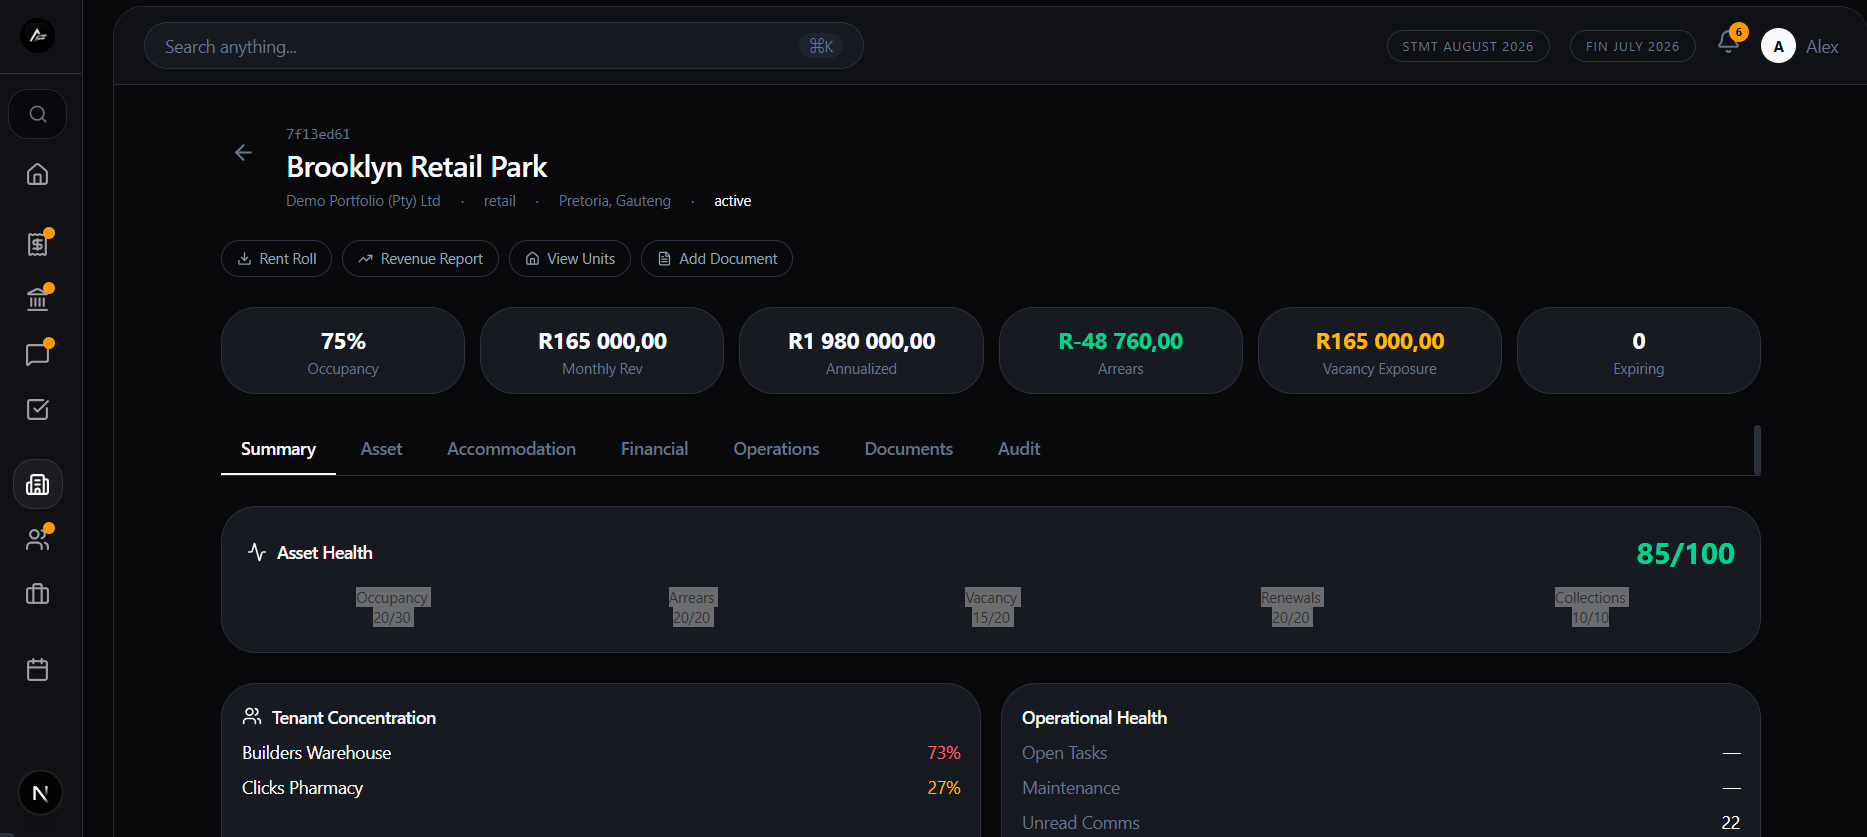
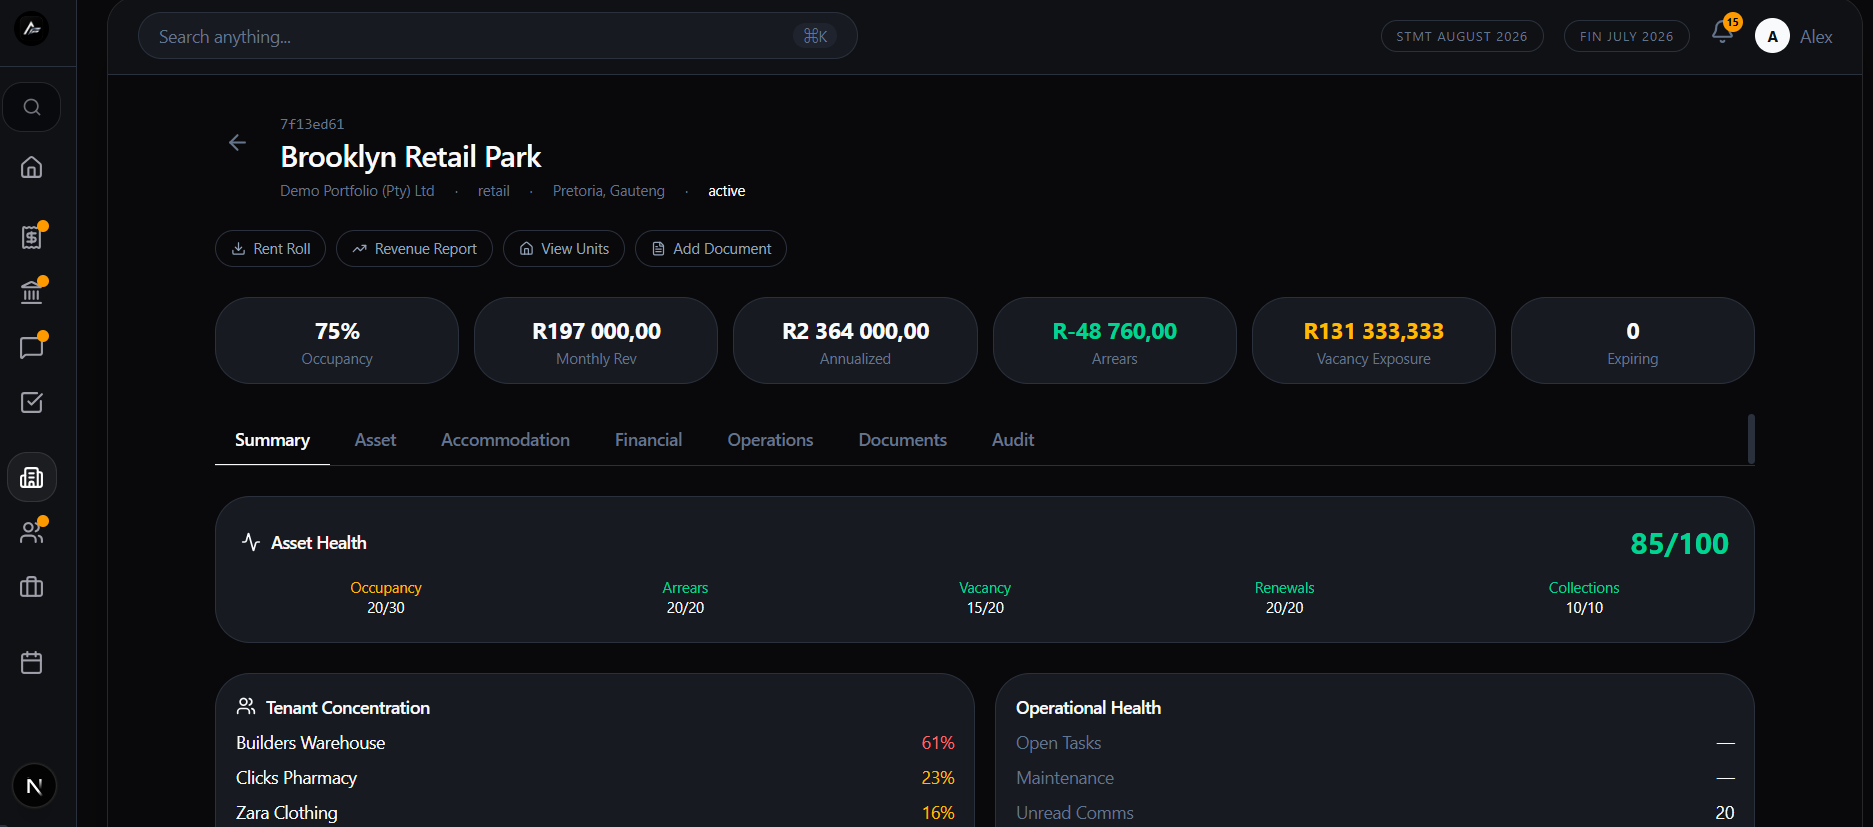
Landing page final: refined hero, trust section, real intelligence stories, reduced screenshots

diff --git a/app/landing/page.tsx b/app/landing/page.tsx
@@ -2,7 +2,6 @@
 
 import { useState } from 'react';
 import Link from 'next/link';
-import { supabase } from "@/lib/supabase";
 
 export default function LandingPage() {
   const [betaEmail, setBetaEmail] = useState('');
@@ -47,7 +46,7 @@ export default function LandingPage() {
       </nav>
 
       {/* ============================================================ */}
-      {/* HERO — single screenshot, product face */}
+      {/* HERO */}
       {/* ============================================================ */}
       <section className="relative overflow-hidden px-6 pt-32 pb-20 md:pt-40">
         <div className="absolute -top-40 -right-40 h-[600px] w-[600px] rounded-full bg-emerald-500/5 blur-3xl" />
@@ -62,7 +61,7 @@ export default function LandingPage() {
               <span className="text-gray-400">Your portfolio is talking.</span>
             </h1>
             <p className="mx-auto max-w-2xl text-lg text-gray-400">
-              Commercial property operations, finally in one system. Leases, billing, statements, cash books, communications and intelligence — from a single operating platform.
+              The commercial property operating system. Leases, billing, cash books and communications — finally working together.
             </p>
             <div className="flex flex-wrap justify-center gap-4 pt-4">
               <a href="#beta" className="rounded-full bg-white px-8 py-3.5 text-sm font-medium text-black transition hover:bg-white/90">Request Beta Access</a>
@@ -99,8 +98,8 @@ export default function LandingPage() {
             </div>
           ))}
         </div>
-        <div className="mt-6 text-center">
-          <p className="text-xl text-white font-medium">AssetFlow → One operating system.</p>
+        <div className="mt-8 text-center">
+          <p className="text-2xl text-white font-semibold">One portfolio. One team. One operating system.</p>
         </div>
       </section>
 
@@ -131,7 +130,7 @@ export default function LandingPage() {
       </section>
 
       {/* ============================================================ */}
-      {/* PRODUCT TOUR — 4 screenshots only */}
+      {/* PRODUCT TOUR — 3 screenshots */}
       {/* ============================================================ */}
       <section className="mx-auto max-w-6xl px-6 py-20">
         <div className="mb-12 text-center">
@@ -140,7 +139,6 @@ export default function LandingPage() {
         </div>
 
         <div className="space-y-16">
-          {/* Revenue Ops */}
           <div>
             <div className="mb-4">
               <p className="text-sm font-semibold text-white">Revenue Operations</p>
@@ -151,7 +149,6 @@ export default function LandingPage() {
             </div>
           </div>
 
-          {/* Cash Book */}
           <div>
             <div className="mb-4">
               <p className="text-sm font-semibold text-white">Cash Book</p>
@@ -162,26 +159,26 @@ export default function LandingPage() {
             </div>
           </div>
 
-          {/* Tenant Workspace */}
           <div>
             <div className="mb-4">
-              <p className="text-sm font-semibold text-white">Tenant Workspace</p>
-              <p className="text-sm text-gray-400">Everything about a tenant in one place — leases, statements, communications, tasks, and audit history.</p>
-            </div>
-            <div className="overflow-hidden rounded-2xl border border-white/5 bg-white/5 shadow-2xl">
-              <img src="/screenshots/tenant-workspace.png" alt="AssetFlow Tenant Workspace" className="w-full h-auto" />
-            </div>
-          </div>
-
-          {/* Property Workspace */}
-          <div>
-            <div className="mb-4">
-              <p className="text-sm font-semibold text-white">Property Workspace</p>
+              <p className="text-sm font-semibold text-white">Property Intelligence Workspace</p>
               <p className="text-sm text-gray-400">Asset health scoring, tenant concentration, occupancy metrics, and financial performance — per property.</p>
             </div>
             <div className="overflow-hidden rounded-2xl border border-white/5 bg-white/5 shadow-2xl">
               <img src="/screenshots/property-workspace.png" alt="AssetFlow Property Workspace" className="w-full h-auto" />
             </div>
+          </div>
+        </div>
+
+        <div className="mt-12 rounded-2xl border border-white/5 bg-white/5 p-6 text-center">
+          <p className="text-sm text-gray-400">Also included:</p>
+          <div className="mt-3 flex flex-wrap justify-center gap-x-6 gap-y-2 text-sm text-gray-300">
+            <span>✓ Tenant Workspace</span>
+            <span>✓ Communications Engine</span>
+            <span>✓ Tasks & Workflows</span>
+            <span>✓ Audit Trail</span>
+            <span>✓ Document Management</span>
+            <span>✓ Operational Calendar</span>
           </div>
         </div>
       </section>
@@ -195,20 +192,20 @@ export default function LandingPage() {
           <h2 className="mt-3 text-3xl font-bold text-white md:text-4xl">What your portfolio is trying to tell you.</h2>
         </div>
         <div className="grid gap-6 md:grid-cols-3">
-          <div className="rounded-3xl border border-emerald-500/10 bg-emerald-500/5 p-8">
-            <div className="text-4xl font-bold text-emerald-400">R47,500</div>
-            <p className="mt-2 text-lg font-medium text-white">Missed recoveries found</p>
-            <p className="mt-1 text-sm text-gray-400">Parking, utilities, rates — flagged before they hit your P&L.</p>
+          <div className="rounded-3xl border border-amber-500/10 bg-amber-500/5 p-8">
+            <div className="text-4xl font-bold text-amber-400">3</div>
+            <p className="mt-2 text-lg font-medium text-white">Parking bays have no billing rule</p>
+            <p className="mt-1 text-sm text-gray-400">Potential loss: R31,500 annually. Flagged before it hits your P&L.</p>
           </div>
           <div className="rounded-3xl border border-amber-500/10 bg-amber-500/5 p-8">
-            <div className="text-4xl font-bold text-amber-400">5</div>
-            <p className="mt-2 text-lg font-medium text-white">Leases expiring soon</p>
-            <p className="mt-1 text-sm text-gray-400">Renewal alerts. Revenue at risk. Don't let leases lapse.</p>
+            <div className="text-4xl font-bold text-amber-400">44</div>
+            <p className="mt-2 text-lg font-medium text-white">Vacant units across your portfolio</p>
+            <p className="mt-1 text-sm text-gray-400">Daily revenue loss: R30,247. Vacancy cost clock tracks every day.</p>
           </div>
-          <div className="rounded-3xl border border-blue-500/10 bg-blue-500/5 p-8">
-            <div className="text-4xl font-bold text-blue-400">7</div>
-            <p className="mt-2 text-lg font-medium text-white">Things need attention</p>
-            <p className="mt-1 text-sm text-gray-400">Prioritized. Actionable. The system flags. You decide.</p>
+          <div className="rounded-3xl border border-red-500/10 bg-red-500/5 p-8">
+            <div className="text-4xl font-bold text-red-400">5</div>
+            <p className="mt-2 text-lg font-medium text-white">Leases expire within 90 days</p>
+            <p className="mt-1 text-sm text-gray-400">Revenue exposed: R2.1m annually. Renewal alerts before it's too late.</p>
           </div>
         </div>
       </section>
@@ -232,6 +229,7 @@ export default function LandingPage() {
             </thead>
             <tbody>
               {[
+                ["Single Operating Workspace", "✓", "×"],
                 ["Morning Brief", "✓", "×"],
                 ["Revenue Leakage Detection", "✓", "×"],
                 ["Vacancy Cost Clock", "✓", "×"],
@@ -247,6 +245,21 @@ export default function LandingPage() {
               ))}
             </tbody>
           </table>
+        </div>
+      </section>
+
+      {/* ============================================================ */}
+      {/* TRUST */}
+      {/* ============================================================ */}
+      <section className="mx-auto max-w-3xl px-6 py-20 text-center">
+        <div className="border-t border-white/5 pt-16">
+          <p className="text-xs uppercase tracking-[0.3em] text-gray-500">Built by property professionals</p>
+          <p className="mt-4 text-lg text-gray-400 leading-relaxed">
+            Designed by people who have worked in administration, leasing, property management, and portfolio management.
+          </p>
+          <p className="mt-2 text-white font-medium">
+            Not software people trying to understand property. Property people building software.
+          </p>
         </div>
       </section>
 
